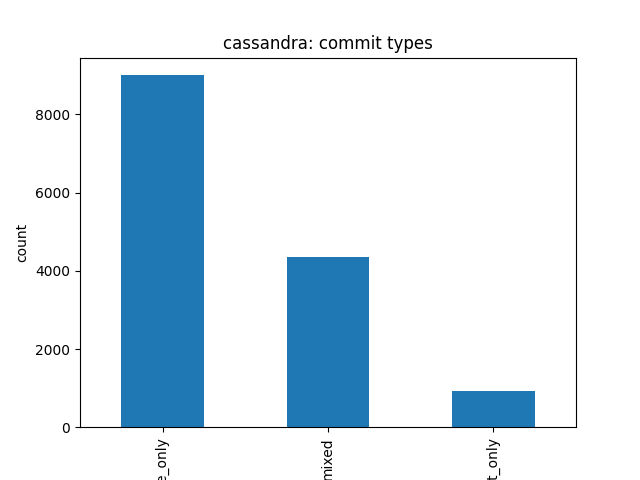
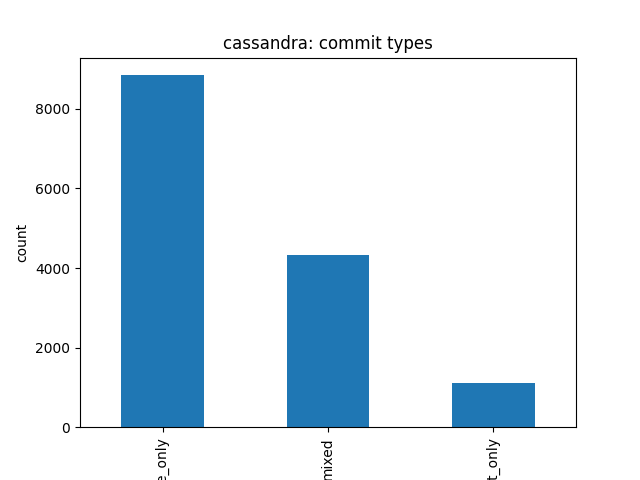
Better Testing finder

diff --git a/anaylsis/main.py b/anaylsis/main.py
@@ -4,10 +4,7 @@ import os
 import matplotlib.pyplot as plt
 
 from utils import to_commit_df, classify_commits
-
-
 pd.set_option('display.max_columns', None)
-
 
 data = []
 #Load all mined repos into dataframes
@@ -19,6 +16,7 @@ for file in os.listdir("data"):
     data.append(df)
     print(file+" total commits loaded:", len(df))
 
+#Classify commits in each repo
 for i, df in enumerate(data):
     test_counts, code_counts, unknown_java_counts, commit_types = classify_commits(df)
 
@@ -37,6 +35,8 @@ for i, df in enumerate(data):
 for i, df in enumerate(data):
     df_main = df[(df["on_main"]) & (~df["is_merge"]) & (df["commit_type"] != "none")]
     repo_name = df_main['repo'].iloc[0]
+
+    #Plot commit type distribution
     counts = df_main["commit_type"].value_counts()
     plt.figure()
     counts.plot(kind="bar")
@@ -46,8 +46,8 @@ for i, df in enumerate(data):
     plt.savefig(f"anaylsis/plots/{repo_name}_commit_types_bar.png")
     plt.close()
 
+    #Plot commit types over time
     by_year = df_main.groupby(["year", "commit_type"]).size().unstack(fill_value=0)
-
     plt.figure()
     bottom = None
     for col in by_year.columns:
@@ -65,8 +65,8 @@ for i, df in enumerate(data):
     plt.savefig(f"anaylsis/plots/{repo_name}_commit_types_per_year.png")
     plt.close()
 
+    #Plot commit size distribution
     sizes = df_main["num_lines_changed"].dropna()
-
     plt.figure()
     plt.hist(sizes, bins=60)
     plt.xlabel("lines changed per commit")
@@ -79,3 +79,4 @@ for i, df in enumerate(data):
     print(f"{repo_name} commit size stats:")
     print("median lines changed:", float(sizes.median()) if len(sizes) else None)
     print("95th percentile:", float(sizes.quantile(0.95)) if len(sizes) else None)
+

diff --git a/anaylsis/utils.py b/anaylsis/utils.py
@@ -2,7 +2,9 @@ import re
 import pandas as pd
 
 def is_test_file(filename):
-    return bool(re.search(r'[Tt]est\.java$|[Tt]est\w+\.java$', filename))
+    return \
+    bool(re.search(r'test/|tests/|src/test/|src/tests/', filename)) or \
+    bool(re.search(r'.*[Tt]est\.java$|^[Tt]est\w+\.java$', filename))
 
 def is_prod_file(filename):
     return bool(re.search(r'/src/|/main/|/lib/', filename))
